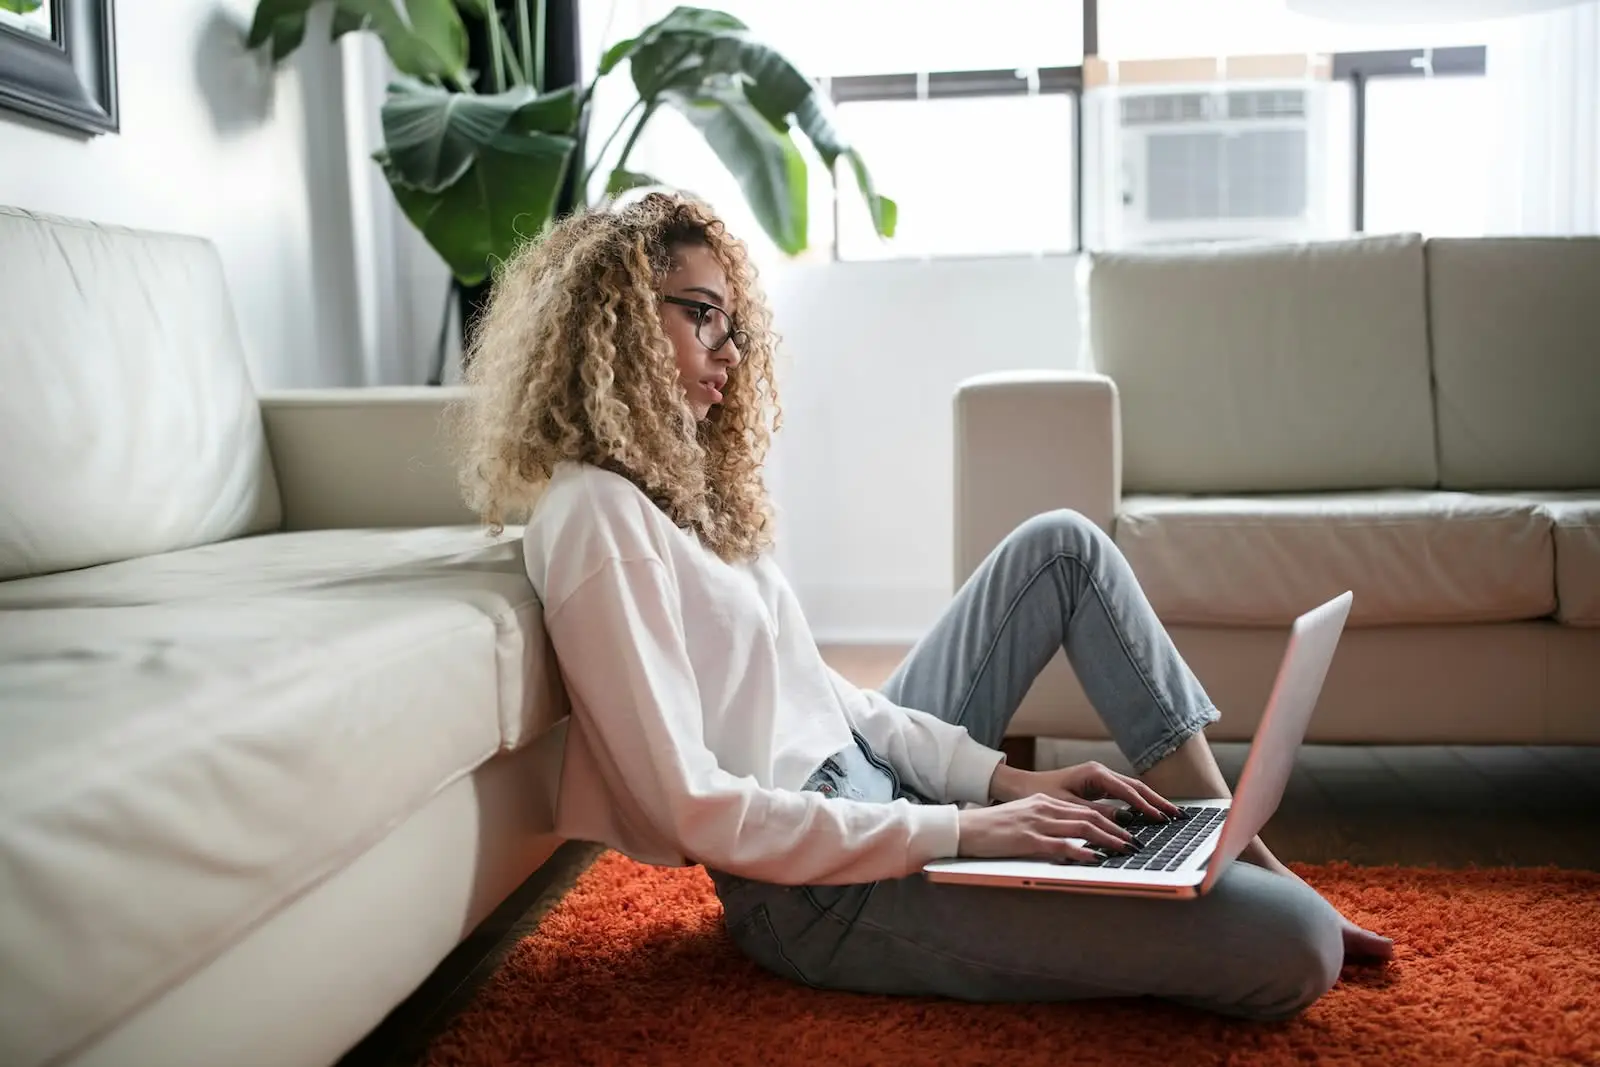
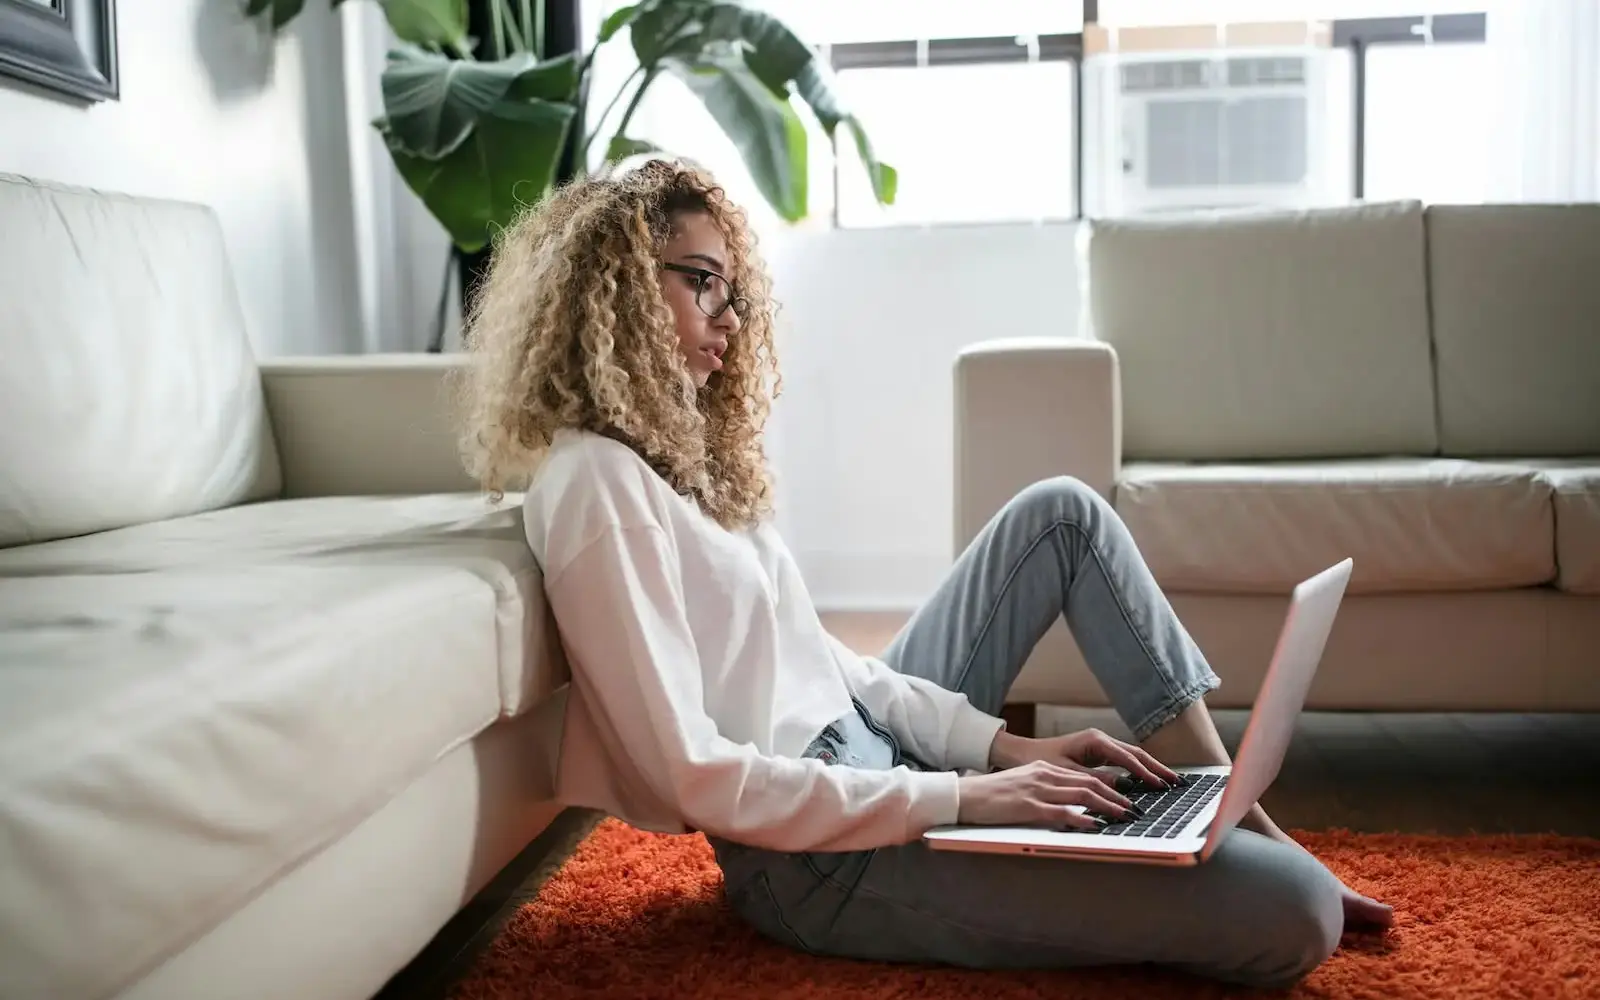
Reconfigured components for image delivery improvement

diff --git a/src/pages/Home.js b/src/pages/Home.js
@@ -24,7 +24,11 @@ function Home() {
       <Hero primaryH1="Front-end Developer" subHead="Open to Work" subHeadDescription="See Projects" />
       <ImageSeparator
         imageSrc={valuesExerciseImg}
-        altText="Candid shot of Kyle Chin participating in a company values exercise." 
+        altText="Candid shot of Kyle Chin participating in a company values exercise."
+        width="1600"
+        height="850"
+        loading="eager"
+        fetchPriority="high" 
         containerNameClasses="image-separator-right hero-separator object-position-left-center" 
         photoAttributionClasses="photo-attribution-left vertical flex-column" 
         imageUrl="https://www.arieljordanphoto.com/" 
@@ -41,6 +45,9 @@ function Home() {
       <ImageSeparator
         imageSrc={businessStrategyImg}
         altText="A website information archicture and planning session."
+        width="1600"
+        height="850"
+        loading="lazy"
         containerNameClasses="image-separator-left about-separator object-position-right-center"
         photoAttributionClasses="photo-attribution-right vertical flex-column"
         imageUrl="https://unsplash.com/@kaleidico?utm_content=creditCopyText&utm_medium=referral&utm_source=unsplash"
@@ -59,6 +66,9 @@ function Home() {
         imageSrc={letUsTalkImg}
         altText="Professional headshot of Kyle Chin, a strategist, designer, and front-end developer in Vancouver, WA."
         containerNameClasses="image-separator-right quote-separator object-position-center-center" 
+        width="1600"
+        height="850"
+        loading="lazy"
         photoAttributionClasses="photo-attribution-left vertical flex-column" 
         imageUrl="https://www.arieljordanphoto.com/" 
         photographer="Ariel Jordan" 

diff --git a/src/components/ImageSeparator.js b/src/components/ImageSeparator.js
@@ -8,7 +8,9 @@ export default function ImageSeparator({
   sizes,                   // Optional responsive sizes layout guidance
   width,                   // Intrinsic width
   height,                  // Intrinsic height
-  loading = "lazy",        // Native lazy loading (defaulting to lazy)
+  loading = "lazy",        // Default to lazy loading for below-fold instances
+  fetchPriority,           // "high" for the first/LCP image, undefined for others
+  decoding = "async",      // Prevents main-thread blocking during image decoding
   altText = "",            // Accessible image description
   imageUrl,                // Photographer's profile URL
   photographer,            // Name of the photographer
@@ -27,6 +29,8 @@ export default function ImageSeparator({
             width={width}
             height={height}
             loading={loading}
+            fetchPriority={fetchPriority}
+            decoding={decoding}
             alt={altText || (photographer ? `Photo by ${photographer}` : "")}
             className="image-separator-img"
           />

diff --git a/src/components/SiteLogo.js b/src/components/SiteLogo.js
@@ -1,12 +1,30 @@
 import React from "react";
 
-export default function SiteLogo({ siteName, headshot, alt, width, height }) {
+export default function SiteLogo({ 
+  siteName = "Kyle Chin", 
+  headshot, 
+  alt = "Kyle Chin headshot", 
+  width = "500", 
+  height = "500" 
+}) {
   return (
-    <a className="site-logo" href="/">
+    <a 
+      className="site-logo" 
+      href="/"
+      aria-label="Kyle Chin - Home"
+    >
       <div className="logo-inner">
         <div className="headshot">
           <figure>
-            <img src={headshot} alt={alt} width={width} height={height} />
+            <img 
+              src={headshot} 
+              alt={alt} 
+              width={width} 
+              height={height}
+              loading="eager"
+              fetchPriority="high"
+              decoding="async"
+            />
           </figure>
         </div>
         <div className="site-name">

diff --git a/public/index.html b/public/index.html
@@ -4,6 +4,21 @@
   <meta charset="utf-8" />
   <meta name="viewport" content="width=device-width, initial-scale=1" />
   <meta name="theme-color" content="#1f1f1f" />
+
+  <!-- Non-blocking stylesheet preloader -->
+  <script>
+    var observer = new MutationObserver(function(mutations) {
+      mutations.forEach(function(mutation) {
+        mutation.addedNodes.forEach(function(node) {
+          if (node.tagName === 'LINK' && node.rel === 'stylesheet') {
+            node.media = 'print';
+            node.onload = function() { node.media = 'all'; };
+          }
+        });
+      });
+    });
+    observer.observe(document.head, { childList: true });
+  </script>
   
   <title>Kyle Chin | Designer & Front-End Developer</title>
   <meta name="description" content="Hello! I'm Kyle Chin, a strategist, designer, and developer. Contact me today to start your next web project." />

diff --git a/src/components/FooterLogo.js b/src/components/FooterLogo.js
@@ -1,12 +1,28 @@
 import React from "react";
 import { HashLink } from "react-router-hash-link";
 
-export default function FooterLogo({ imgSrc, alt, width, height }) {
+export default function FooterLogo({ 
+  imgSrc, 
+  alt = "", 
+  width = "953",
+  height = "166", 
+  loading = "lazy"
+}) {
   return (
     <div className="footer-logo">
       <figure>
-        <HashLink to="#top" className="inline-block">
-          <img src={imgSrc} alt={alt} width={width} height={height} />
+        <HashLink 
+          to="#top" 
+          className="inline-block"
+          aria-label="Back to top of page"
+        >
+          <img 
+            src={imgSrc} 
+            alt={alt} 
+            width={width} 
+            height={height} 
+            loading={loading}
+          />
         </HashLink>
       </figure>
     </div>

diff --git a/src/components/Work.js b/src/components/Work.js
@@ -9,6 +9,9 @@ export default function Work() {
   const featuredWorks = [
     {
       imgSrc: artifyImg,
+      width: "1600",
+      height: "1000",
+      loading: "lazy",
       altText: "Artify search allows you to learn more about your favorite bands and their top songs.",
       featuredWorkContainerClasses: "select-work-featured-bg project-1",
       photographer: "Cody Board",
@@ -24,6 +27,9 @@ export default function Work() {
     },
     {
       imgSrc: quizerImg,
+      width: "1600",
+      height: "1000",
+      loading: "lazy",
       altText: "The Quizer app is a fun online trivia test that calculates scores and tracks top users on a leaderboard.",
       featuredWorkContainerClasses: "select-work-featured-bg project-2",
       photographer: "TC",
